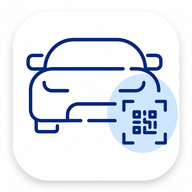
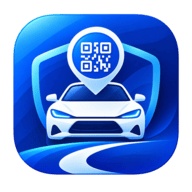
Changed app img and fixed some issues

diff --git a/frontend/src/index.css b/frontend/src/index.css
@@ -155,7 +155,7 @@ html {
 
 body {
   margin: 0;
-  min-height: 100vh;
+  min-height: 0;
   background: transparent;
   color: var(--text);
   overflow-x: hidden;
@@ -176,7 +176,7 @@ body::before {
 }
 
 #root {
-  min-height: 100vh;
+  min-height: 0;
   display: flex;
   flex-direction: column;
   position: relative;

diff --git a/frontend/src/App.css b/frontend/src/App.css
@@ -13,7 +13,7 @@
 }
 
 .dashboard-shell {
-  min-height: 100vh;
+  min-height: 0;
   display: flex;
   flex-direction: column;
 }
